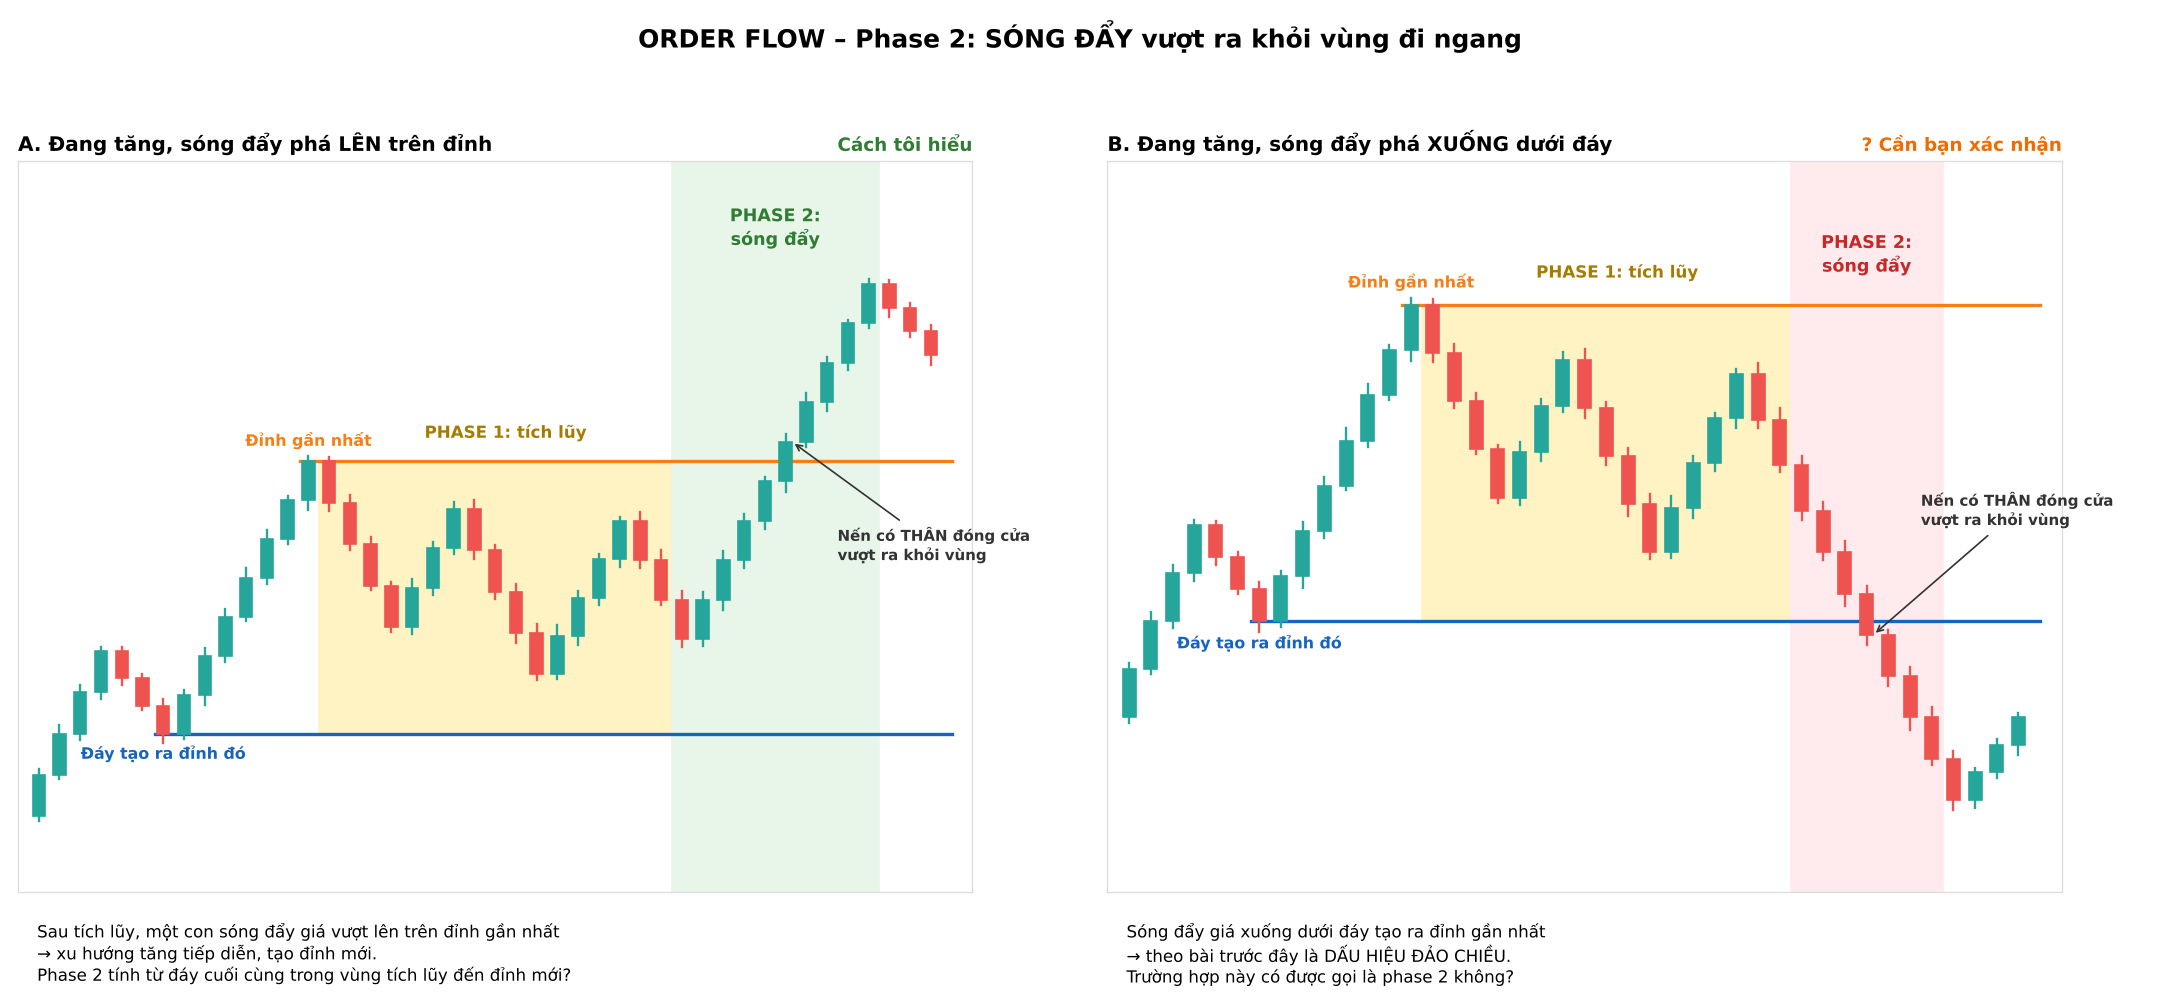
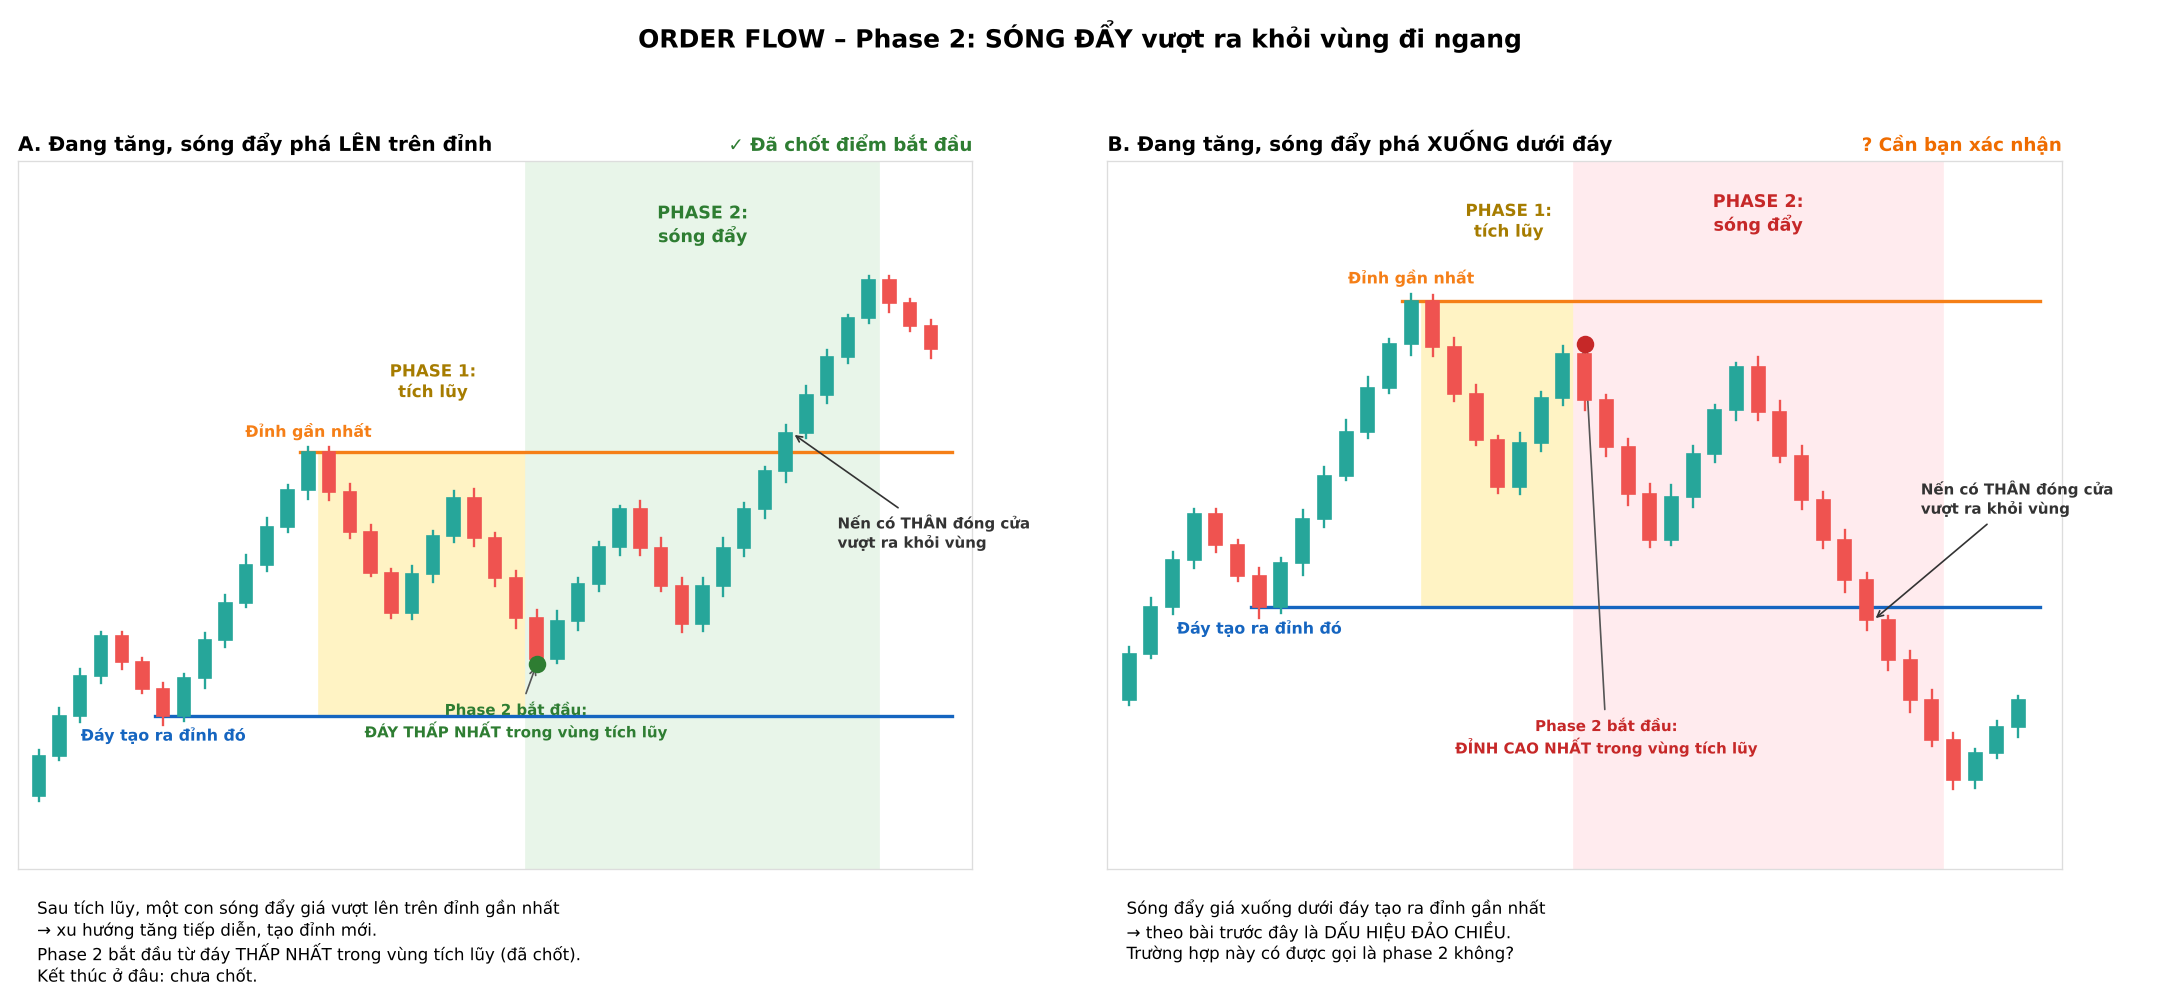
Order flow phase 2: chốt tạm quy tắc vượt qua và điểm bắt đầu
Claude-Session: https://claude.ai/code/session_01QDQqkxbAsnss6apbWZAP33

diff --git a/knowledge/03-setup.md b/knowledge/03-setup.md
@@ -94,9 +94,10 @@ Ví dụ chart thật: `examples/01-dinh-day-xauusd-h4.jpg`
 **Phase 2: SÓNG ĐẨY** (người dùng đã giảng)
 - Con sóng đẩy giá **vượt qua vùng đi ngang** (phase 1) trước đó.
 - Minh họa cách hiểu: `examples/12-order-flow-phase2.png`
+- **"Vượt qua"** = có nến có **thân đóng cửa ra ngoài vùng** tích lũy, giống quy tắc phá vỡ (đã chốt tạm thời).
+- **Phase 2 bắt đầu** từ **đáy THẤP NHẤT trong vùng tích lũy** (xu hướng tăng). Không phải đáy cuối cùng trong vùng (đã chốt tạm thời).
 - Chưa chốt:
-  - "Vượt qua" = có nến có thân đóng cửa ra ngoài vùng (theo quy tắc phá vỡ)?
-  - Phase 2 bắt đầu và kết thúc ở đâu (từ đáy cuối cùng trong vùng tích lũy đến đỉnh mới?)
-  - Sóng đẩy phá ngược chiều xu hướng (xu hướng tăng mà phá xuống dưới đáy) có gọi là phase 2 không?
+  - Phase 2 kết thúc ở đâu (ở đỉnh mới?).
+  - Sóng đẩy phá ngược chiều xu hướng (xu hướng tăng mà phá xuống dưới đáy) có gọi là phase 2 không? Nếu có, điểm bắt đầu có phải là đỉnh CAO NHẤT trong vùng tích lũy?
 
 **Phase 3, 4:** chưa học.
